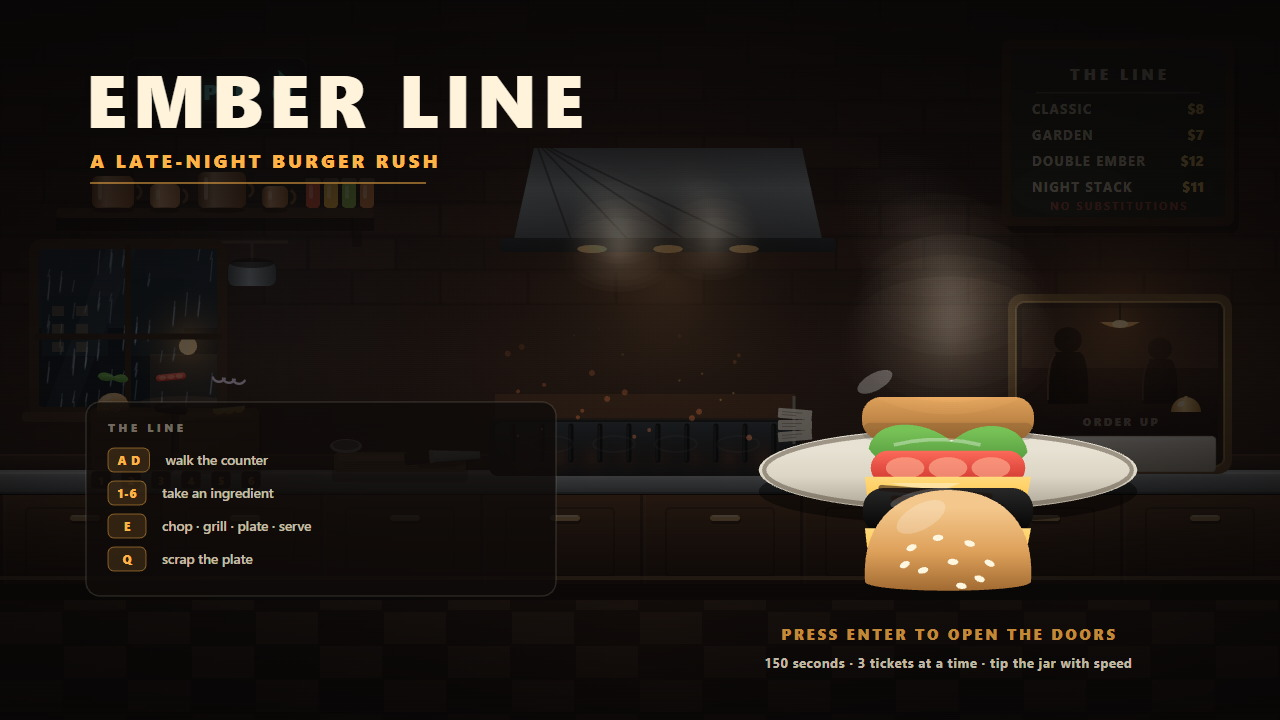
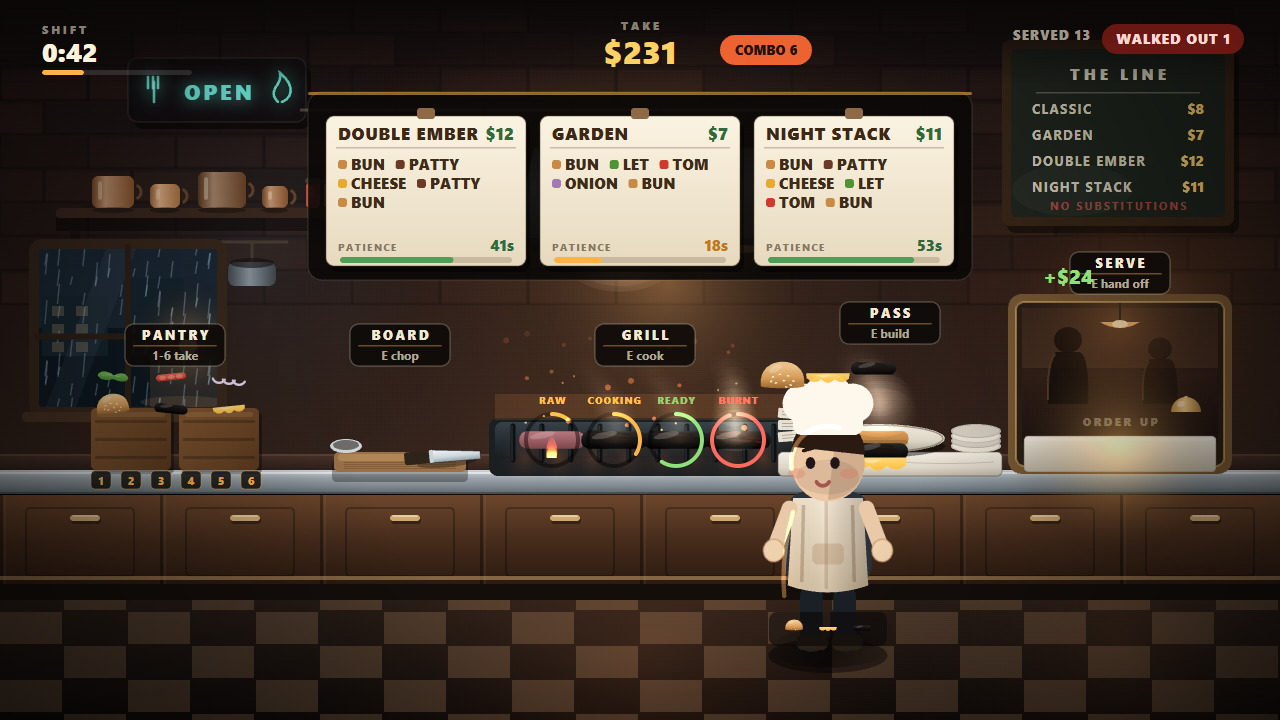
Lead the screenshots with the line mid-shift, not the title card
The judge reads the sheet first: the cover now shows the whole loop at once
(kitchen, ticket board, pantry, grill with every doneness, plated dish, timer).

diff --git a/README.md b/README.md
@@ -8,9 +8,9 @@ A late-night burger joint, one cook, one counter, and a queue that never stops.
 
 **Ember Line** is a single-file-agnostic, dependency-free HTML5 canvas line-cook game: you walk the counter from the pantry crate to the grill to the pass window, chop vegetables on the board, grill patties without burning them, stack each burger in exactly the order its ticket prints, and hand it off before the customer walks. Nothing loads from the network. No images, no fonts, no audio files: the whole kitchen is drawn with the Canvas 2D API and the sound is synthesised with WebAudio.
 
-![Ember Line — title](screenshots/1-cover.jpg)
-![Ember Line — mid-shift](screenshots/2-rush.jpg)
-![Ember Line — grill](screenshots/3-grill.jpg)
+![Ember Line — mid-shift on the line](screenshots/1-cover.jpg)
+![Ember Line — the grill, raw to burnt](screenshots/2-grill.jpg)
+![Ember Line — title](screenshots/3-title.jpg)
 ![Ember Line — end of shift](screenshots/4-summary.jpg)
 
 ## Play
